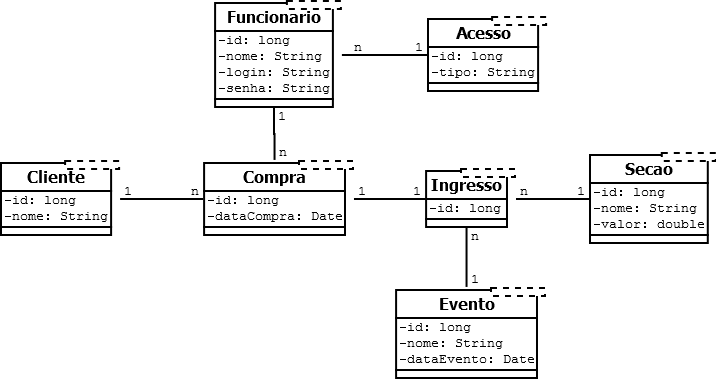
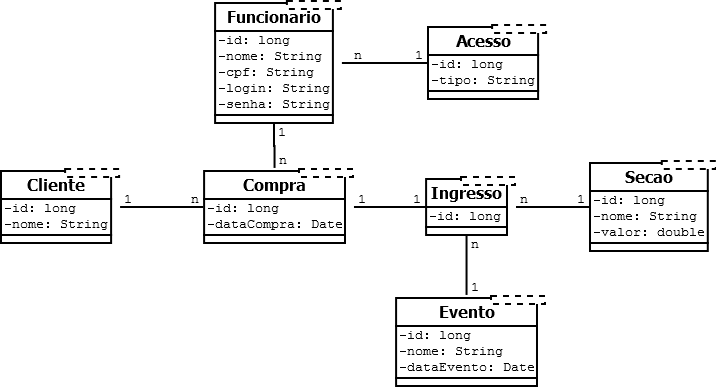
_

Changed region(s): [[0.0, 0.3773, 1.0, 0.6675], [0.2765, 0.0, 0.7682, 0.3773], [0.5531, 0.7256, 0.7682, 0.9868]]

diff --git a/VendaIngressoData/src/br/ufg/inf/vendaingresso/CompraDAOImpl.java b/VendaIngressoData/src/br/ufg/inf/vendaingresso/CompraDAOImpl.java
@@ -1,0 +1,107 @@
+/*
+ * To change this license header, choose License Headers in Project Properties.
+ * To change this template file, choose Tools | Templates
+ * and open the template in the editor.
+ */
+
+package br.ufg.inf.vendaingresso;
+
+import br.ufg.inf.vendaingresso.utils.ConnectionFactory;
+import java.sql.Connection;
+import java.sql.PreparedStatement;
+import java.sql.ResultSet;
+import java.sql.SQLException;
+import java.sql.Statement;
+
+/**
+ *
+ * @author Ana Clara
+ */
+public class CompraDAOImpl implements CompraDAO{
+    
+    private Connection conn = null; 
+    private Statement statement = null; 
+    private PreparedStatement ps = null; 
+    private ResultSet rs = null;
+    
+    @Override
+    public void salvar(Compra compra) {
+        throw new UnsupportedOperationException("Not supported yet."); //To change body of generated methods, choose Tools | Templates.
+    }
+    
+    /**
+    * Metodo para remover uma compra pelo idcompra e nome do funcionario
+    * @param compra
+    * @param funcionario
+    */
+    @Override
+    public void remover(Compra compra, Funcionario funcionario) {
+        try {
+            conn = ConnectionFactory.getConnection();
+            String sql = "DELETE " 
+                       +   "FROM (SELECT idcompra " 
+                       +           "FROM compra c " 
+                       +           "JOIN funcionario f ON c.idfuncionario = f.idfuncionario " 
+                       +           "WHERE idcompra = ? " 
+                       +             "AND f.nome LIKE \'?\');";
+            ps = conn.prepareStatement(sql);
+            ps.setLong(1, compra.getId());
+            ps.setString(2, funcionario.getNome());
+            ps.executeUpdate();
+        } catch (SQLException e){
+                throw new RuntimeException("Erro " + e.getSQLState()
+                                           + " ao atualizar o objeto: " 
+                                           + e.getLocalizedMessage());
+        } catch (ClassNotFoundException e){
+                throw new RuntimeException("Erro ao conectar ao banco: "
+                                         + e.getMessage()); 
+        } finally {
+            close();
+        } 
+    }
+    
+   /**
+    * Metodo para retornar idcompra pelo funcionario
+    * @param funcionario
+    * @return rs
+    */
+    @Override
+    public ResultSet getById(Funcionario funcionario){
+        try{
+            conn = ConnectionFactory.getConnection(); 
+            String sql = "SELECT idcompra "
+                       +   "FROM compra c"
+                       +   "JOIN funcionario f ON c.idfuncionario = f.idfuncionario "
+                       +  "WHERE f.nome LIKE \'?\';";
+            ps = conn.prepareStatement(sql); 
+            rs = ps.executeQuery();
+        } catch (SQLException e){
+                throw new RuntimeException("Erro " + e.getSQLState()
+                                           + " ao atualizar o objeto: " 
+                                           + e.getLocalizedMessage());
+        } catch (ClassNotFoundException e){
+                throw new RuntimeException("Erro ao conectar ao banco: "
+                                         + e.getMessage()); 
+        } finally {
+            close();
+            return rs; 
+        } 
+        
+    }
+    
+    private void close() {
+        try {
+            if (rs != null) {
+                rs.close();
+            }
+            if (statement != null) {
+                statement.close();
+            }
+            if (conn != null) {
+                conn.close();
+            }
+        } catch (SQLException e) {
+            throw new RuntimeException("Erro ao fechar conexão!");
+        }
+    }
+}

diff --git a/VendaIngressoModel/src/br/ufg/inf/vendaingresso/Funcionario.java b/VendaIngressoModel/src/br/ufg/inf/vendaingresso/Funcionario.java
@@ -7,11 +7,13 @@ package br.ufg.inf.vendaingresso;
 public class Funcionario {
     private long id;
     private String nome;
+    private String cpf; 
     private String login;
     private String senha;
 
-    public Funcionario(String nome, String login, String senha) {
+    public Funcionario(String nome, String cpf, String login, String senha) {
         this.nome = nome;
+        this.cpf = cpf; 
         this.login = login;
         this.senha = senha;
     }
@@ -46,5 +48,13 @@ public class Funcionario {
 
     public void setSenha(String senha) {
         this.senha = senha;
+    }
+
+    public String getCpf() {
+        return cpf;
+    }
+    
+    public void setCpf(String cpf) {
+        this.cpf = cpf;
     }
 }

diff --git a/VendaIngressoData/src/br/ufg/inf/vendaingresso/SecaoDAOImpl.java b/VendaIngressoData/src/br/ufg/inf/vendaingresso/SecaoDAOImpl.java
@@ -29,7 +29,7 @@ public class SecaoDAOImpl implements SecaoDAO{
         try {
             conn = ConnectionFactory.getConnection(); 
             String sql = "INSERT INTO secao (id, nome, valor) "
-                       +            "VALUES (?, \'?\', ?)";
+                       +            "VALUES (?, \'?\', ?);";
             ps = conn.prepareStatement(sql);
             ps.setLong(1, secao.getId());
             ps.setString(2, secao.getNome());

diff --git a/VendaIngressoData/src/br/ufg/inf/vendaingresso/IngressoDAOImpl.java b/VendaIngressoData/src/br/ufg/inf/vendaingresso/IngressoDAOImpl.java
@@ -150,7 +150,7 @@ public class IngressoDAOImpl implements IngressoDAO{
             String sql = "SELECT * "
                        + "FROM ingresso "
                        + "WHERE idcompra IS NULL"
-                       + "AND evento LIKE \'?\'";
+                       + "AND evento LIKE \'?\';";
             ps = conn.prepareStatement(sql);
             ps.setString(1, evento.getNome());
             rs = ps.executeQuery();

diff --git a/VendaIngressoData/src/br/ufg/inf/vendaingresso/CompraDAO.java b/VendaIngressoData/src/br/ufg/inf/vendaingresso/CompraDAO.java
@@ -1,10 +1,13 @@
 package br.ufg.inf.vendaingresso;
 
+import java.sql.ResultSet;
+
 /**
  *
  * @author aluno
  */
 public interface CompraDAO {
     public void salvar(Compra compra);
-    public void remover(Compra compra);
+    public void remover(Compra compra, Funcionario funcionario);
+    public ResultSet getById(Funcionario funcionario);
 }

diff --git a/VendaIngressoData/src/br/ufg/inf/vendaingresso/EventoDAO.java b/VendaIngressoData/src/br/ufg/inf/vendaingresso/EventoDAO.java
@@ -6,5 +6,4 @@ package br.ufg.inf.vendaingresso;
  */
 public interface EventoDAO {
     public void salvar(Evento evento);
-    public void getByNome(String nome);
 }
